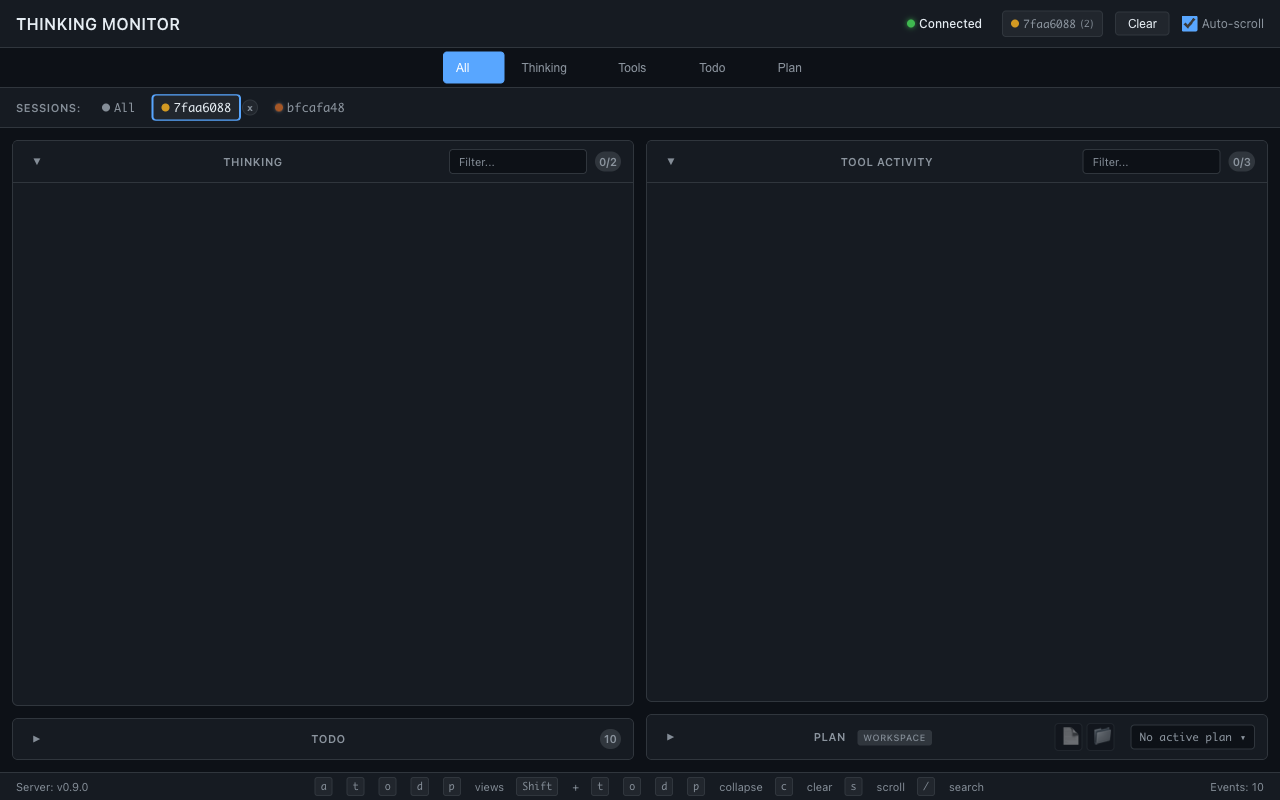
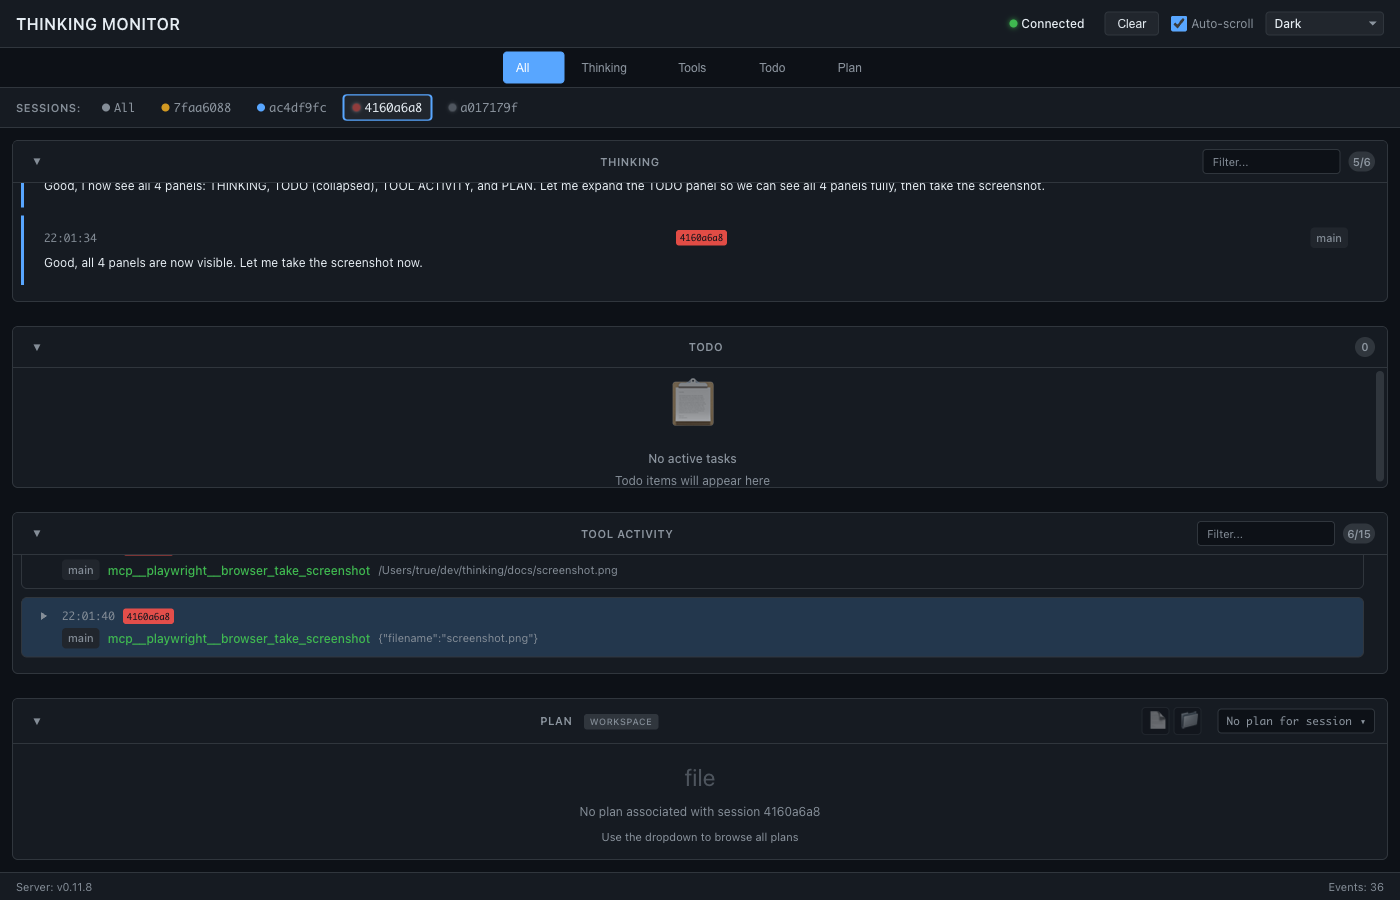
v0.12.0: Single-column layout release
- Major UI refactor: vertical panel layout with resizable dividers
- Session-aware panels (TODO/PLAN hide in "All" view)
- Drag-to-reorder collapsed panels
- GFM markdown table support
- Security fixes (XSS, ReDoS, CSS injection)
- Updated screenshot

diff --git a/README.md b/README.md
@@ -4,7 +4,7 @@
 
 [![TypeScript](https://img.shields.io/badge/TypeScript-5.7-blue?logo=typescript&logoColor=white)](https://www.typescriptlang.org/)
 [![Node.js](https://img.shields.io/badge/Node.js-≥22-green?logo=node.js&logoColor=white)](https://nodejs.org/)
-[![Version](https://img.shields.io/badge/version-0.11.1-purple)](./CHANGELOG.md)
+[![Version](https://img.shields.io/badge/version-0.12.0-purple)](./CHANGELOG.md)
 
 A real-time dashboard that visualizes Claude Code's thinking process, tool usage, and agent activity as it happens.
 
@@ -28,11 +28,13 @@ Claude Code is powerful, but opaque. You see the output, not the process. Thinki
 | **Plan** | Active plan files with quick-open and reveal |
 
 **Plus:**
+- Single-column vertical layout with resizable panels
 - Session filtering across all panels
 - Keyboard shortcuts for everything
-- Collapsible panels with state persistence
+- Collapsible panels with drag-to-reorder
 - Right-click to open files in editor or Finder
 - Secret redaction (API keys, tokens, passwords)
+- GFM markdown table rendering
 
 ---
 
@@ -120,8 +122,8 @@ LOG_LEVEL=debug pnpm start  # Verbose
 
 ## Recent Changes
 
-- **v0.11.3** — Payload handling: increased limit to 100KB, accept+truncate pattern, 5MB memory safety limit
-- **v0.11.2** — Session UI cleanup: inline close button on hover, removed redundant header indicator
-- **v0.11.1** — Security hardening: CSP headers, WebSocket size limits, CSRF protection, ReDoS fixes
+- **v0.12.0** — Single-column layout with resizable panels, drag-to-reorder, session-aware panel visibility
+- **v0.11.7** — GFM table support in markdown rendering
+- **v0.11.4–0.11.6** — Security fixes: XSS via markdown links, ReDoS protection, CSS injection defense
 
 *[Full changelog →](./CHANGELOG.md)*

diff --git a/CHANGELOG.md b/CHANGELOG.md
@@ -1,5 +1,25 @@
 # Changelog
 
+## [0.12.0] - 2026-01-05
+
+### Changed
+- **Single-column vertical layout** - Major UI refactor from 2-column grid to vertically stacked panels for better usability
+- **Updated screenshot** - New dashboard screenshot reflecting the v0.12.0 layout
+
+### Added
+- **Resizable panels** - Drag resizers between panels to adjust heights
+- **Dynamic resizer rebuilding** - Resizers automatically rebuild when panels collapse/expand or sessions change
+- **Session-aware panel visibility** - TODO and PLAN panels auto-hide in "All" sessions view
+- **Drag-to-reorder collapsed panels** - Reorder collapsed panels by dragging
+- **GFM markdown tables** - GitHub-flavored table rendering with alignment support
+
+### Security
+- **XSS via markdown links** (CRITICAL-001) - Fixed attribute breakout in rendered links
+- **ReDoS protection** (HIGH-001) - Added 50KB content cap before regex processing
+- **CSS injection defense** (CRITICAL-002) - Sanitized dynamic color values
+
+---
+
 ## [0.11.8] - 2026-01-05
 
 ### Changed
